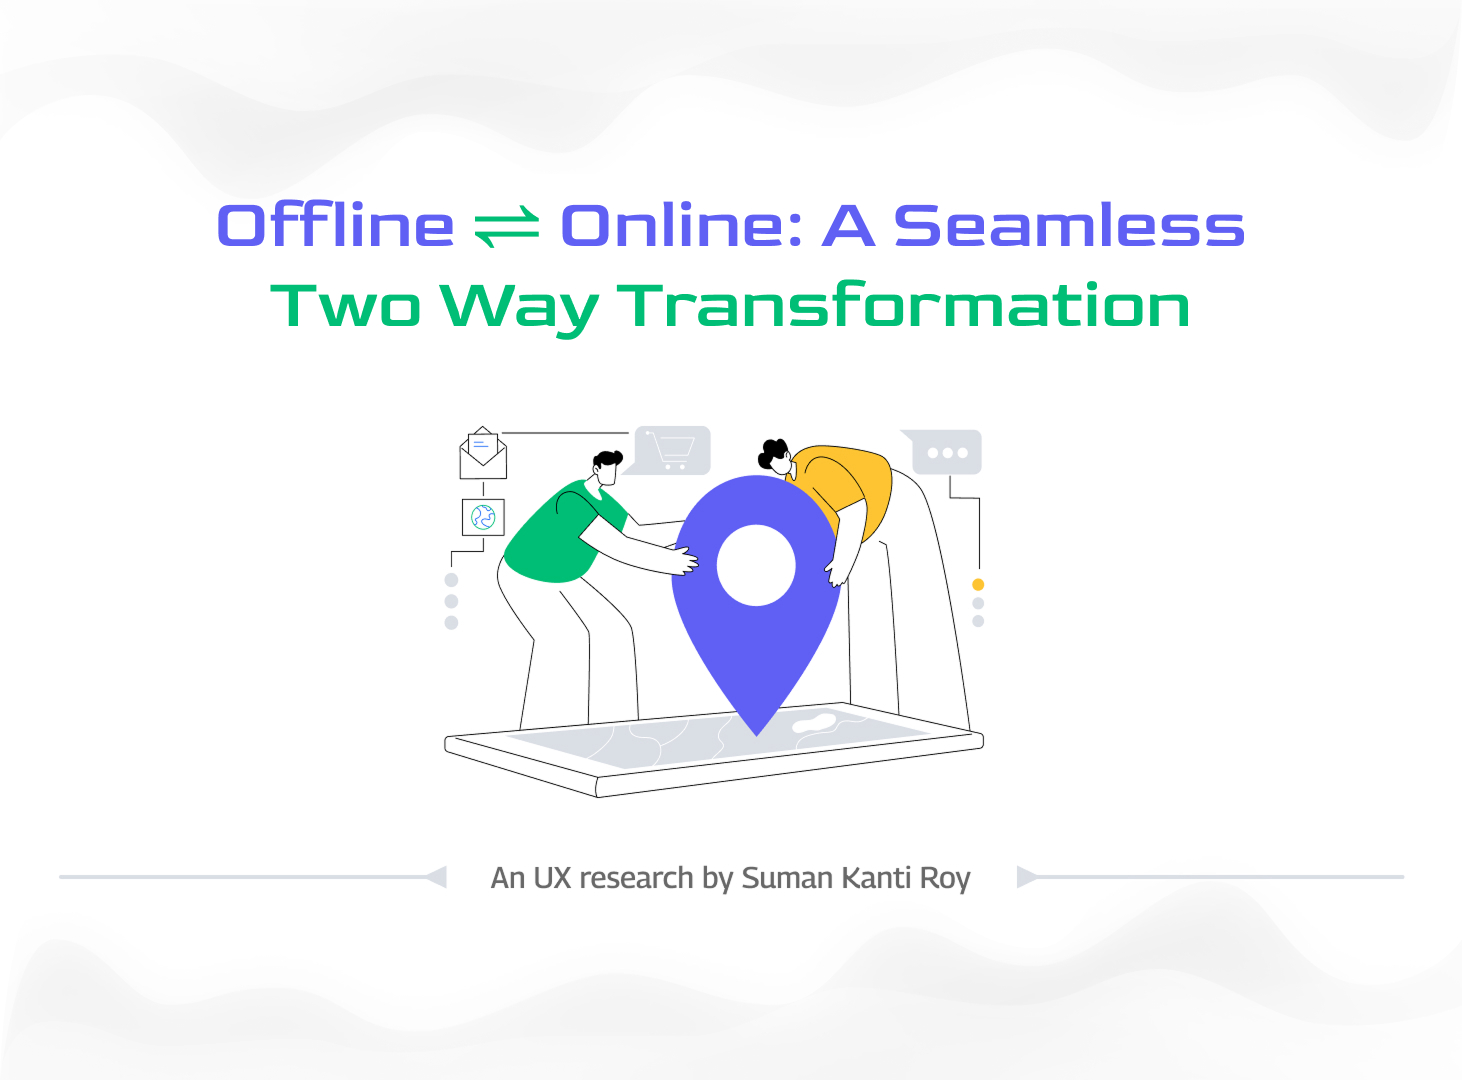
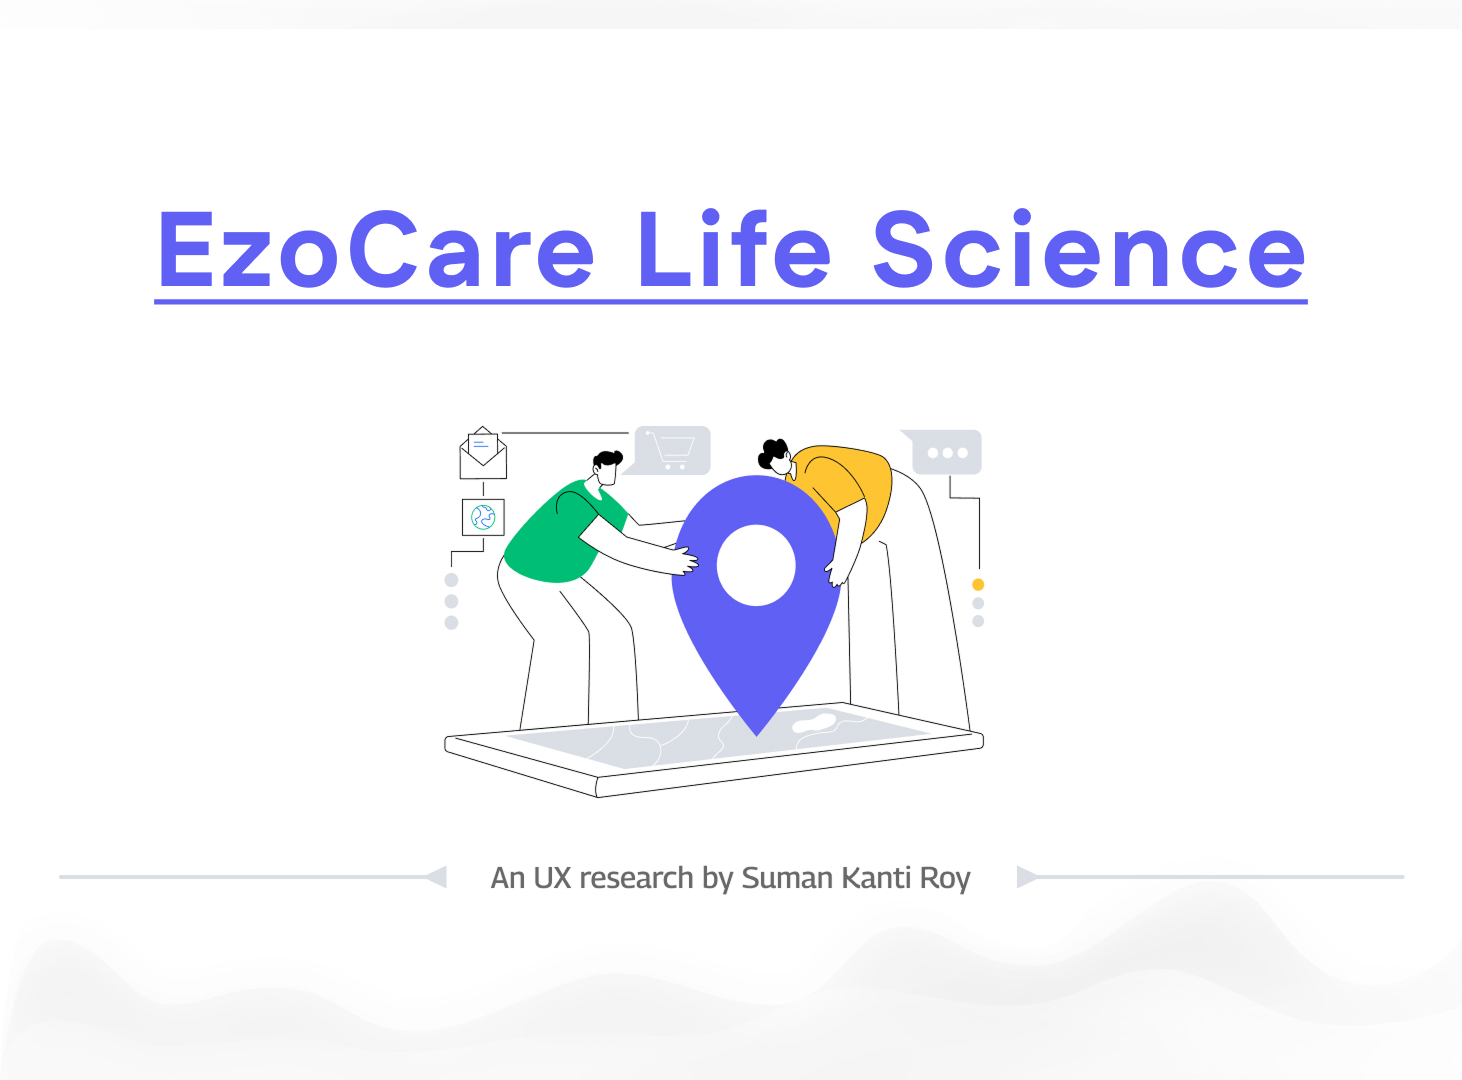
g

Changed region(s): [[0.0923, 0.1833, 0.8926, 0.3361]]

diff --git a/index.html b/index.html
@@ -621,7 +621,7 @@
         <img src="assets/img/Case Study-2.jpg" class="img-fluid"><div class="portfolio-links">
           <a class="popup-trigger"><h1>⛶</h1><h6>Expand for more insights</h6></a></div></div>
         
-      <div class="image-introbox"><div class="row"><div class="image-title"><h6>Made Easy Offline ⇌ Online</h6></div>
+      <div class="image-introbox"><div class="row"><div class="image-title"><h6>EzoCare Life Science</h6></div>
         <div class="card-title"><div class="reaction-box">
           <span class="icon-with-tooltip"><svg class="smaller-icons"><use xlink:href="#appreciate"></use></svg><span class="tooltip">Like</span></span>
           <span class="icon-with-tooltip"><a href="assets/svg/still_working.gif" download><svg class="smaller-icons"><use xlink:href="#download"></use></svg></a><span class="tooltip">Save</span></span>
